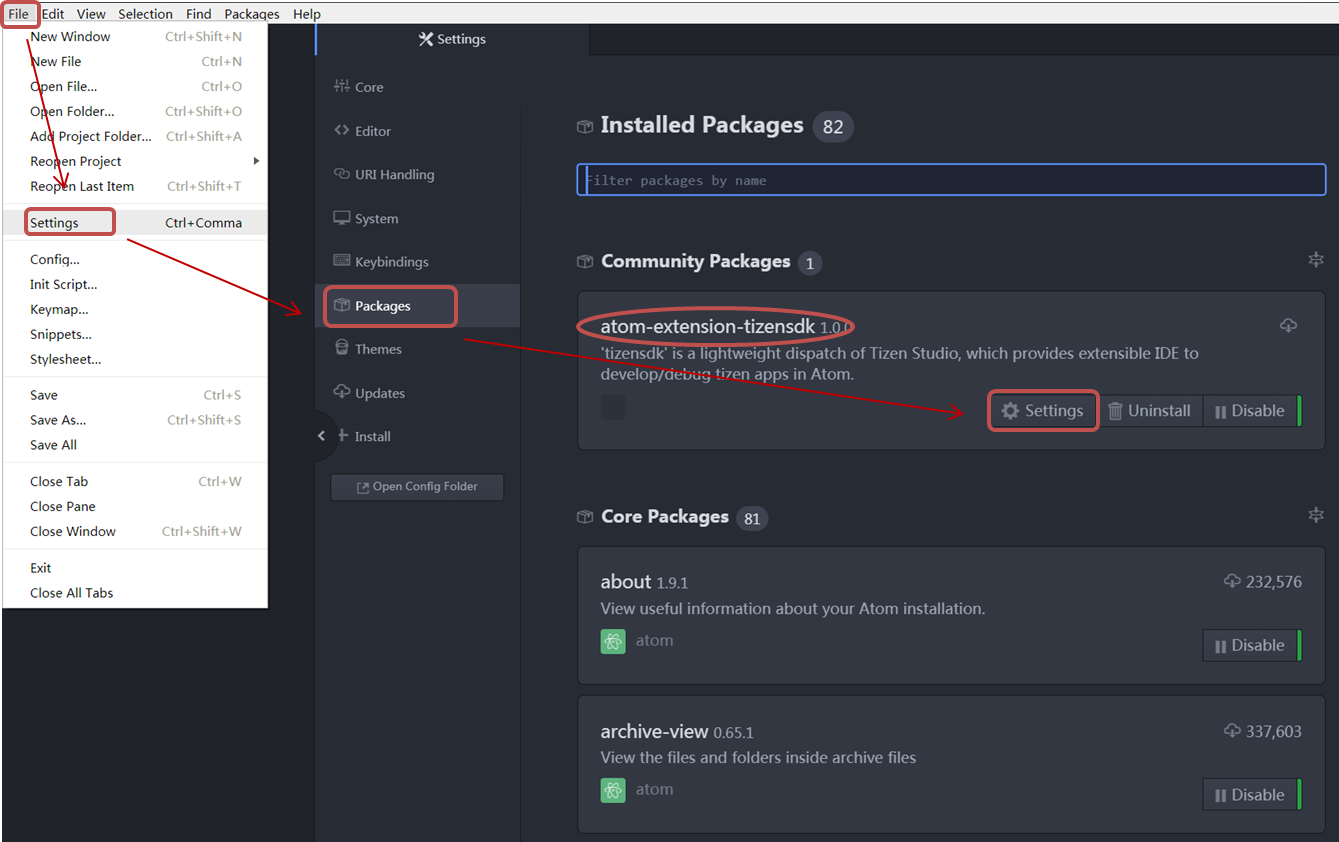
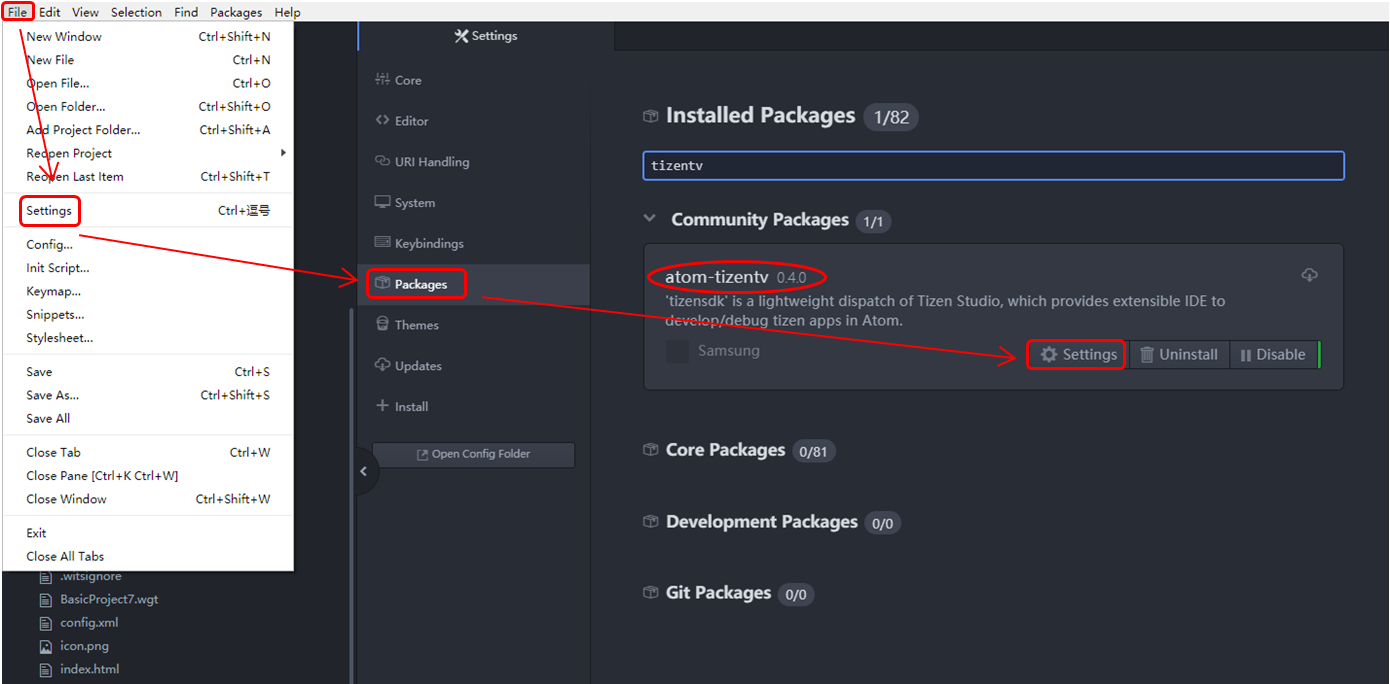
Update version 0.4.0 Update the dependencies version. Fix getCertificateInfo async issue. Fix open terminal issue on MAC OS

diff --git a/lib/openTerminal.js b/lib/openTerminal.js
@@ -22,30 +22,22 @@ var openTerminal = (function() {
             let sdbExec = await tools.getSdbPath();
             let sdbPath = path.dirname(sdbExec);
             logger.info(moduleName, 'sdbExec =' + sdbExec);
-            if(process.platform != 'win32') {
-                var terminalCMD = 'gnome-terminal -e \'bash -c \"cd ' + sdbPath + '; exec bash\"\'';
-                childProcess.exec(terminalCMD, function (err, stdout, stderr) {
-                    if (err) {
-                        var launchErrStatus = 'Failed to open terminal!';
-                        common.showMsgOnWindow(common.ENUM_WINMSG_LEVEL.ERROR, launchErrStatus);
-                        logger.error(moduleName, launchErrStatus);
-                        logger.info(moduleName, err.message);
-                    }
-                });
-            }
-            else {
+            if(process.platform == 'win32') {
                 var terminalCMD = 'cmd.exe /c \"cd ' + sdbPath + ' && start"';
-                childProcess.exec(terminalCMD, function (err, stdout, stderr) {
-                    if (err) {
-                        var launchErrStatus = 'Failed to open terminal!';
-                        common.showMsgOnWindow(common.ENUM_WINMSG_LEVEL.ERROR, launchErrStatus);
-                        logger.error(moduleName, launchErrStatus);
-                        logger.info(moduleName, err.message);
-                    }
-                });
+            } else if(process.platform == 'linux'){
+                var terminalCMD = 'gnome-terminal -e \'bash -c \"cd ' + sdbPath + '; exec bash\"\'';
+            } else {
+                var terminalCMD = 'open -a Terminal.app ' + sdbPath;
             }
-            
-            //openTerminal.createTerminal();  
+
+            childProcess.exec(terminalCMD, function (err, stdout, stderr) {
+                if (err) {
+                    var launchErrStatus = 'Failed to open terminal!';
+                    common.showMsgOnWindow(common.ENUM_WINMSG_LEVEL.ERROR, launchErrStatus);
+                    logger.error(moduleName, launchErrStatus);
+                    logger.info(moduleName, err.message);
+                }
+            });
         },
         
         createTerminal:function() {

diff --git a/lib/certificateManager.js b/lib/certificateManager.js
@@ -9,7 +9,7 @@ var certificateManager = (function(){
     var path = require('path');
     var parseString = require('xml2js').parseString;
     var p12ToPem = require('./p12ToPem');
-    var TizenCM = require('@tizentv/webide-common-tizentv').TizenCM;
+    var TizenCertManager = require('@tizentv/webide-common-tizentv').TizenCertManager;
     var ProfileManager = require('@tizentv/webide-common-tizentv').ProfileManager;
     
     // Module name
@@ -670,9 +670,9 @@ var certificateManager = (function(){
 		var expirationDate = '';
 		var issuerName = '';
 
-		let tizenCertMgr = new TizenCM(common.resourcePath);
+		let tizenCertMgr = new TizenCertManager(common.resourcePath);
 		await tizenCertMgr.init();
-		var parseInfo = tizenCertMgr.getCertificateInfo(certPath, password);
+		var parseInfo = await tizenCertMgr.getCertificateInfo(certPath, password);
 		if(parseInfo){
 			expirationDate = parseInfo.afterYear;
 			issuerName = parseInfo.issuerName;

diff --git a/lib/tizenCertificate.js b/lib/tizenCertificate.js
@@ -9,7 +9,7 @@ var tizenCertificate = (function(){
 	const { dialog } = require('electron').remote;
 	var generateCertificate = require('./generateCertificate');
 	var tizenCertificateViewControl = require('./tizenCertificateViewControl');
-	var TizenCM = require('@tizentv/webide-common-tizentv').TizenCM;
+	var TizenCertManager = require('@tizentv/webide-common-tizentv').TizenCertManager;
 	var ProfileManager = require('@tizentv/webide-common-tizentv').ProfileManager;
 	var request = require('request');
 	var compressing = require('compressing');
@@ -178,7 +178,7 @@ var tizenCertificate = (function(){
 
 	return {
 		handleCommand:async function() {
-			let tizenCertMgr = new TizenCM(common.resourcePath);
+			let tizenCertMgr = new TizenCertManager(common.resourcePath);
 			await tizenCertMgr.init();
 
 			tizenCertificateViewControl.showView().then(async (certInfo) => {

diff --git a/lib/samsungCertificate.js b/lib/samsungCertificate.js
@@ -21,7 +21,7 @@ var samsungCertificate = (function() {
     var fs = require('fs');
     var path = require('path');
     var common = require('./common');
-    var SamsungCM = require('@tizentv/webide-common-tizentv').SamsungCM;
+    var SamsungCertManager = require('@tizentv/webide-common-tizentv').SamsungCertManager;
     var ProfileManager = require('@tizentv/webide-common-tizentv').ProfileManager;
 
     const certPath = common.extensionCertPath;
@@ -471,7 +471,7 @@ var samsungCertificate = (function() {
     return {
         handleCommand:async function() {
             try {
-                samsungCertMgr = new SamsungCM(common.resourcePath);
+                samsungCertMgr = new SamsungCertManager(common.resourcePath);
                 await samsungCertMgr.init();
                 profileMgr = new ProfileManager(common.resourcePath);
 

diff --git a/README.md b/README.md
@@ -18,7 +18,7 @@ Atom is a hackable text editor for the 21st century, built on Electron, and bas
 
 ## Gettring started
 >Install:<br>
->Copy “atom-extension-tizensdk” to specified path:<br>
+>Copy “atom-tizentv” to specified path:<br>
 
 ````
 For Windows :   C:\Users\${Your user name}\.atom\packages
@@ -26,7 +26,7 @@ For Ubuntu :       /home/${Your User Name}/.atom/packages
 ````
 >Restart Atom IDE, Tizen SDK extension will be loaded automatically
 
-### Step1: Trigger function with Atom ‘Command Palette’ 
+### Step1: Trigger function with Atom ‘Command Palette’
 -   Open Atom ‘Command Palette’
     -   with shortcut keys ‘Ctrl + Shift + P’
     -   with the menu ‘Packages -> Command Palette’
@@ -72,11 +72,15 @@ For Ubuntu :       /home/${Your User Name}/.atom/packages
     -   Open Chrome DevTools for web app debug
 -   SDB Command Prompt
     -   Open SDB tool path on command line for SDB manual use
+-   Wits Start (Install and Live reload)
+-   Wits Watch (Live reload)
+-   Wits Stop
+    -   Development tool for helping to run and develop your Tizen web application easily on your 2017+ Samsung TV. Find more details about Wits at *https://github.com/Samsung/Wits*
 
 
 
 ## Configure TV
->**Setting parameters for Tizen SDK** 
+>**Setting parameters for Tizen SDK**
 <img height ="600" src="https://github.com/Samsung/atom-tizentv/blob/master/assets/config.png">
 </p>
 
